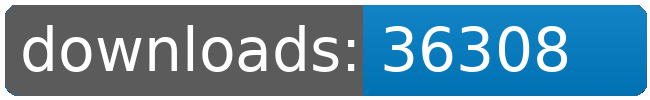
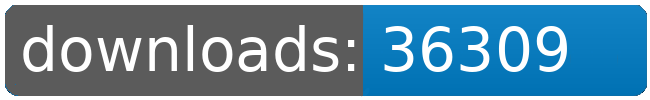
dl log written

Changed region(s): [[0.8, 0.3, 0.8923, 0.72]]

diff --git a/README.md b/README.md
@@ -76,8 +76,8 @@
 		<td>4864</td>
 		<td>4889</td>
 		<td>4908</td>
-		<td>4909</td>
-		<td>+ 1</td>
+		<td>4910</td>
+		<td>+ 2</td>
 	</tr>
 	<tr>
 		<td>Solar.Sails</td>
@@ -109,8 +109,8 @@
 		<td></td>
 		<td></td>
 		<td></td>
-		<td>36308</td>
-		<td>14</td>
+		<td>36309</td>
+		<td>15</td>
 	</tr>
 </table>
 </sub></sup>
@@ -146,8 +146,8 @@
 		<td>4864</td>
 		<td>4889</td>
 		<td>4908</td>
-		<td>4909</td>
-		<td>+ 1</td>
+		<td>4910</td>
+		<td>+ 2</td>
 	</tr>
 	<tr>
 		<td>Korunak.Defense.Drones</td>
@@ -223,8 +223,8 @@
 		<td></td>
 		<td></td>
 		<td></td>
-		<td>36308</td>
-		<td>14</td>
+		<td>36309</td>
+		<td>15</td>
 	</tr>
 </table>
 </sub></sup>
